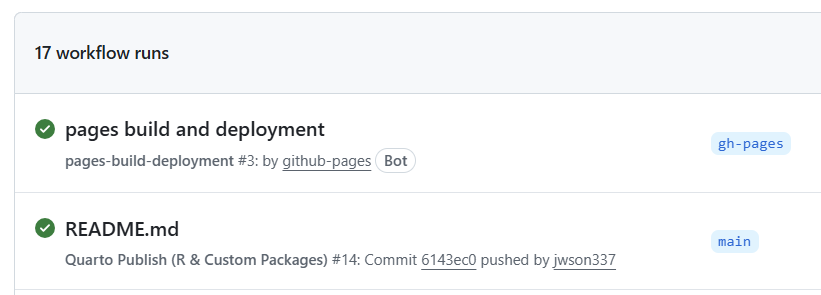
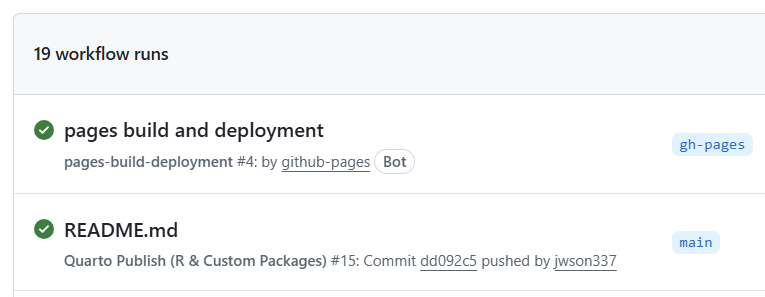
Dockerfile

diff --git a/README.md b/README.md
@@ -1,9 +1,10 @@
 # 숙제 3
 
 이름: 손정우
+
 학번: 2026-29593
 
 이 숙제의 상세 분석 결과는 아래 링크에서 확인하실 수 있습니다.
 
 * [분석 리포트 (HTML)](./hw03.html) 
-* [주피터 노트북 (ipynb)](https://mybinder.org/v2/gh/snu-stat/hw3-2-jwson337/gh-pages?filepath=hw03.ipynb)
+* [주피터 노트북 (ipynb)](https://mybinder.org/v2/gh/snu-stat/hw3-2-jwson337/gh-pages?urlpath=tree/hw03.ipynb)
